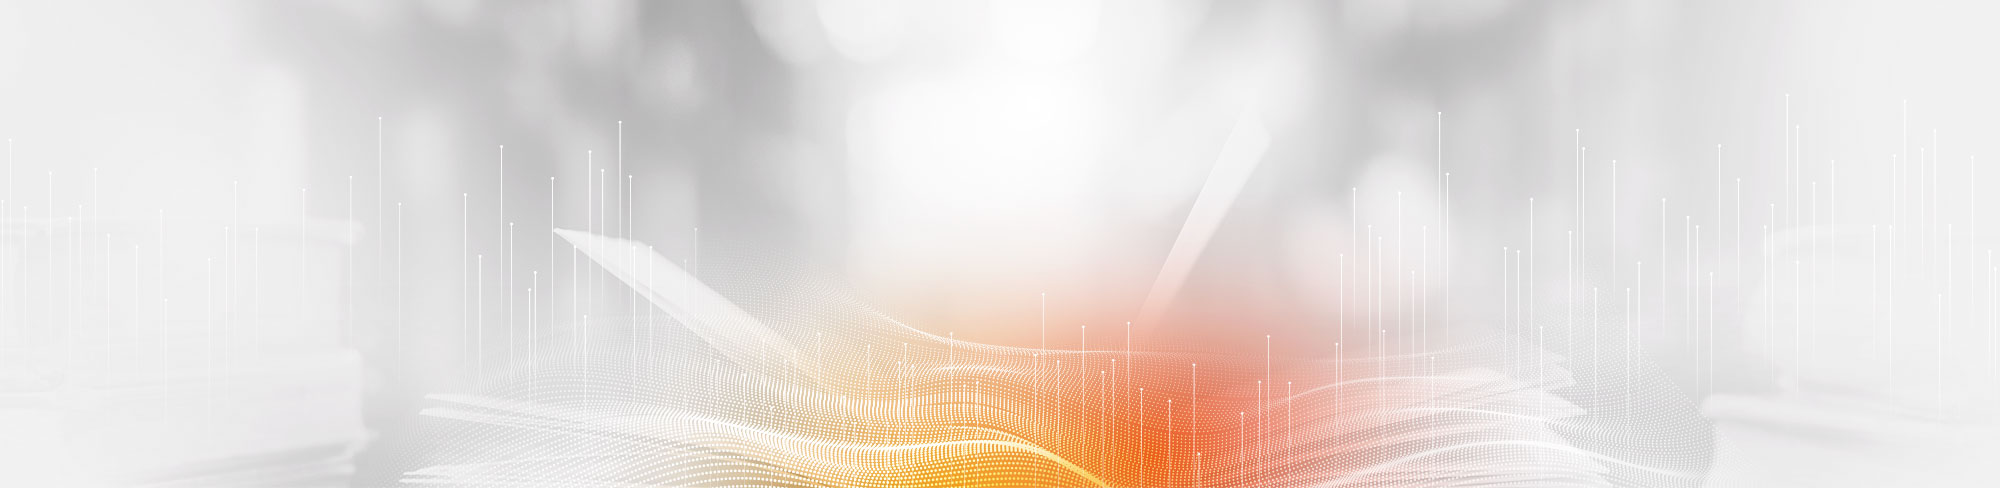
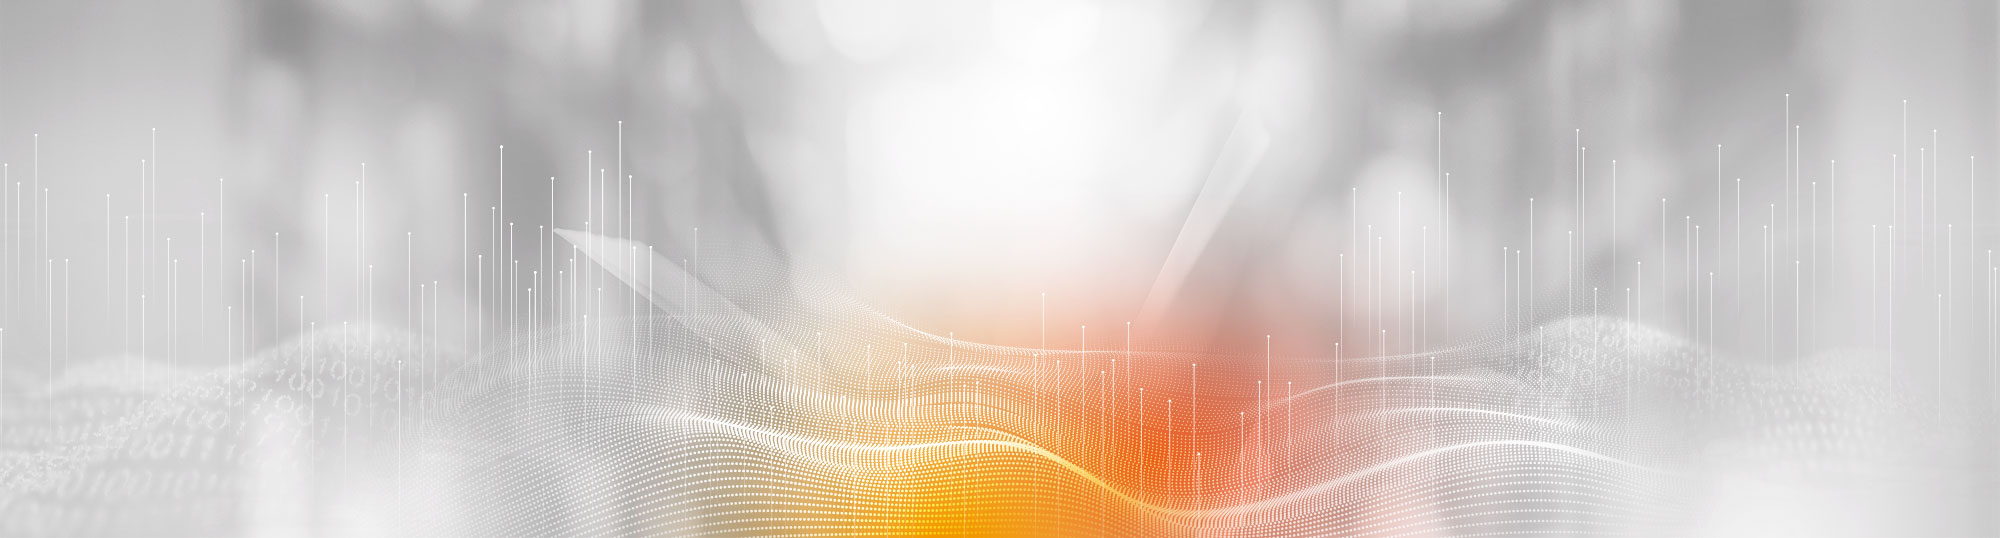
20220727 增加首頁示範圖

diff --git a/sass/page/_mp.scss b/sass/page/_mp.scss
@@ -125,19 +125,17 @@ a.more {
     height: 488px;
     background-color: #d1d0d1;
     text-align: center;
-    .container{
-        position:relative;
+    .container {
+        position: relative;
     }
-    #particles-js{
-        
-    }
+    #particles-js {}
     .bigbanner_group {
         width: 50%;
         margin: 0 auto;
-        position:absolute;
-        top:190px;
-        right:0;
-        left:0;
+        position: absolute;
+        top: 190px;
+        right: 0;
+        left: 0;
         @media(max-width: 1200px) {
             width: 60%;
         }
@@ -146,8 +144,7 @@ a.more {
         }
         @media(max-width: 767px) {
             width: 80%;
-           
-            top:120px;
+            top: 120px;
         }
         .title {
             color: $color-red;
@@ -187,6 +184,19 @@ a.more {
     //     left: 0;
     //     top: 0;
     //     z-index: 0;
+    // }
+    // &:before {
+    //     content: '';
+    //     width: 100%;
+    //     height: 80px;
+    //     position: absolute;
+    //     top: -50px;
+    //     right: 0;
+    //     left: 0;
+    //     background: rgb(240, 223, 215);
+    //     background: linear-gradient(0deg, rgba(240, 223, 215, 1) 67%, rgba(240, 223, 215, 0) 100%);
+    //     // background: rgb(255, 255, 255);
+    //     // background: linear-gradient(0deg, rgba(255, 255, 255, 1) 35%, rgba(255, 255, 255, 0) 100%);
     // }
     .container {
         position: relative;
@@ -326,7 +336,6 @@ a.more {
         @include screen('mobile') {
             padding: 0 30px;
         }
-       
     }
     .special_report_group {
         padding: 0 0 0 0;
@@ -752,20 +761,20 @@ a.more {
     background-position: center;
     padding: 80px 0;
     position: relative;
-    &:after{
+    &:after {
         content: '';
-        background-image:url('../images/news_information_bg.png');
-        background-repeat:no-repeat;
+        background-image: url('../images/news_information_bg.png');
+        background-repeat: no-repeat;
         background-position: right top;
-        width:800px;
+        width: 800px;
         height: 431px;
-        position:absolute;
-        right:0;
-        top:0;
+        position: absolute;
+        right: 0;
+        top: 0;
         z-index: 0;
     }
     .container {
-        position:relative;
+        position: relative;
         z-index: 1;
         @include gutter(120px);
         @include screen('mobile') {

diff --git a/mp示範圖.htm b/mp示範圖.htm
@@ -1,0 +1,34 @@
+<!doctype html>
+<html lang="zh-Hant" class="no-js">
+
+<head>
+    <meta charset="utf-8">
+    <meta http-equiv="X-UA-Compatible" content="IE=edge">
+    <meta name="viewport" content="width=device-width, initial-scale=1">
+    <title>全國圖書館大數據服務平台</title>
+    <!--HTML5 Shim and Respond.js IE8 support of HTML5 elements and media queries [if lt IE 9]>
+    <script src="js/html5shiv.js"></script>
+    <script src="js/respond.min.js"></script>
+    <![endif]-->
+    <!-- slick css-->
+    <link rel="stylesheet" type="text/css" href="vendor/slick/slick.css" />
+    <link rel="stylesheet" type="text/css" href="vendor/slick/slick-theme.css" />
+    <!-- 燈箱facybox -->
+    <link rel="stylesheet" type="text/css" href="vendor/fancybox/jquery.fancybox.min.css">
+    <!-- wow -->
+    <link rel="stylesheet" href="css/animate.css">
+    <!-- hyUI css -->
+    <link rel="stylesheet" href="css/hyui.css">
+    <!-- favicon -->
+    <link href="images/favicon.png" rel="icon" type="image/x-icon">
+    <!-- google font -->
+    <link rel="preconnect" href="https://fonts.googleapis.com">
+    <link rel="preconnect" href="https://fonts.gstatic.com" crossorigin>
+    <link href="https://fonts.googleapis.com/css2?family=Noto+Serif+TC:wght@600&display=swap" rel="stylesheet">
+</head>
+
+<body>
+    <div><img src="images/mp0622_3.jpg"></div>
+</body>
+
+</html>

diff --git a/index.htm b/index.htm
@@ -99,6 +99,12 @@
                     </tr>
                      <tr>
                         <td></td>
+                        <td>首頁示範圖</td>
+                        <!-- 連結放到a裡面就好 -->
+                        <td><a href="mp示範圖.htm"></a></td>
+                    </tr>
+                     <tr>
+                        <td></td>
                         <td>登入頁</td>
                         <td><a href="登入頁.htm"></a></td>
                     </tr>
